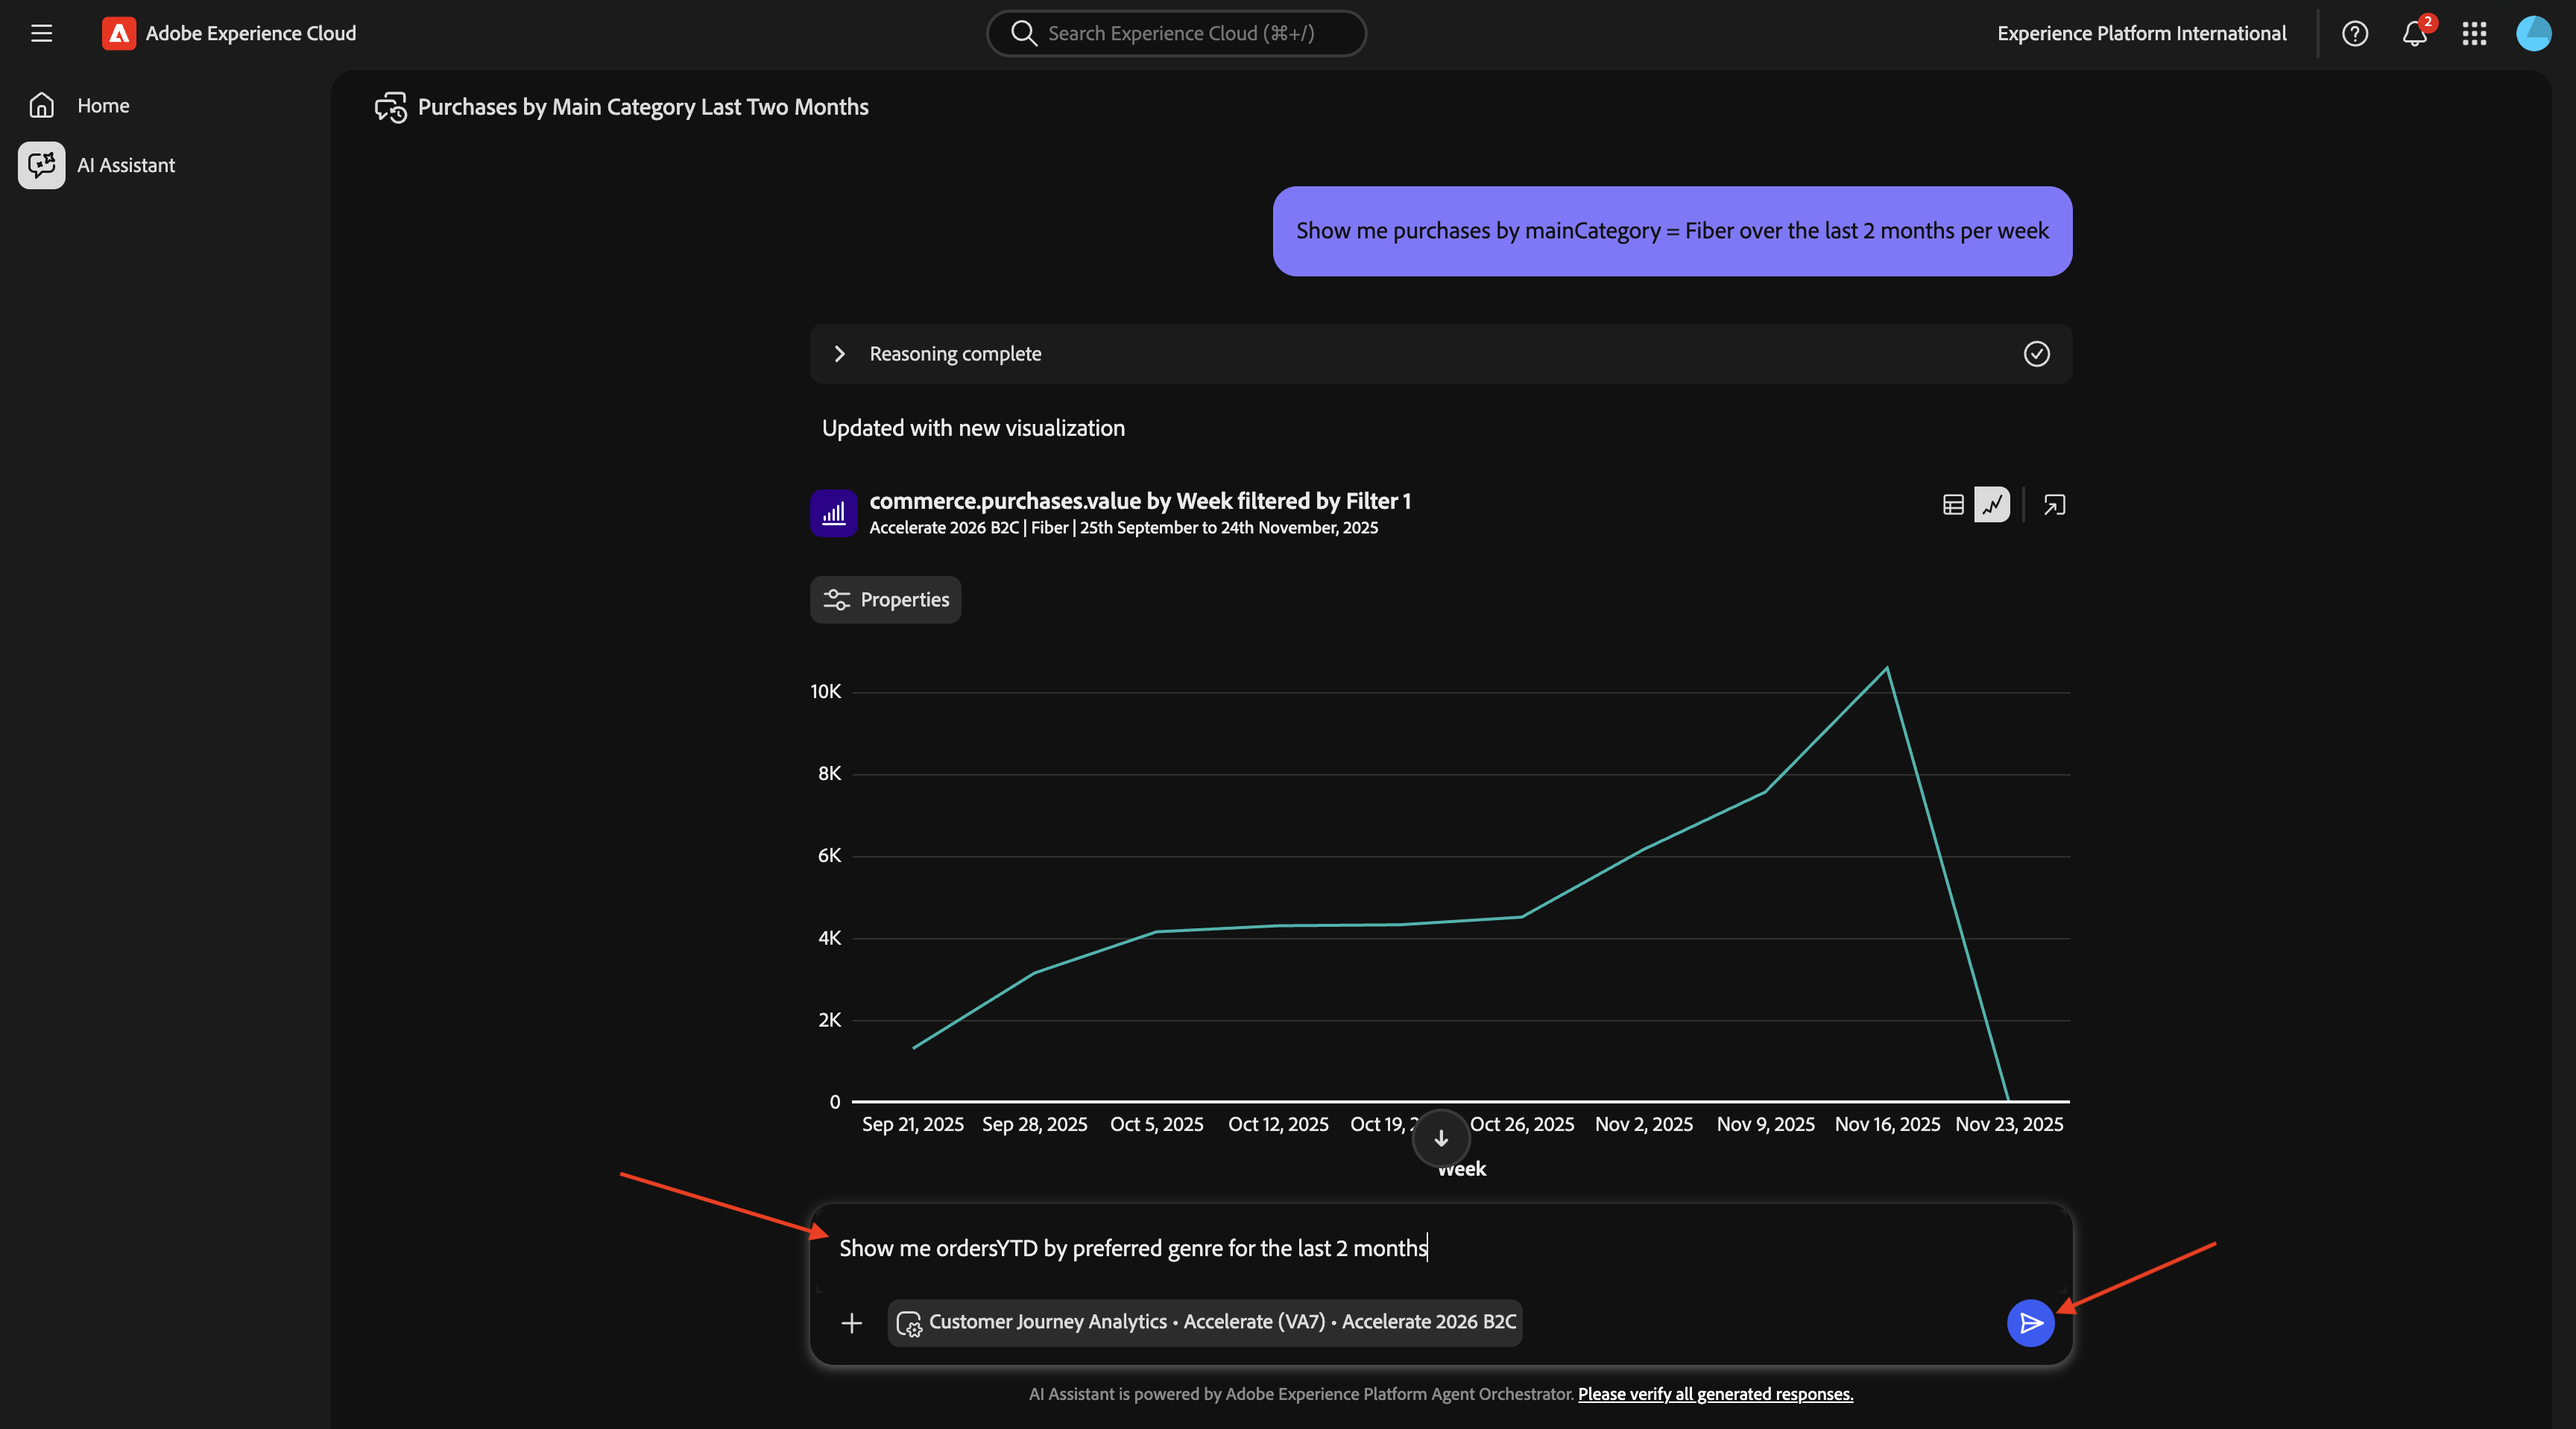
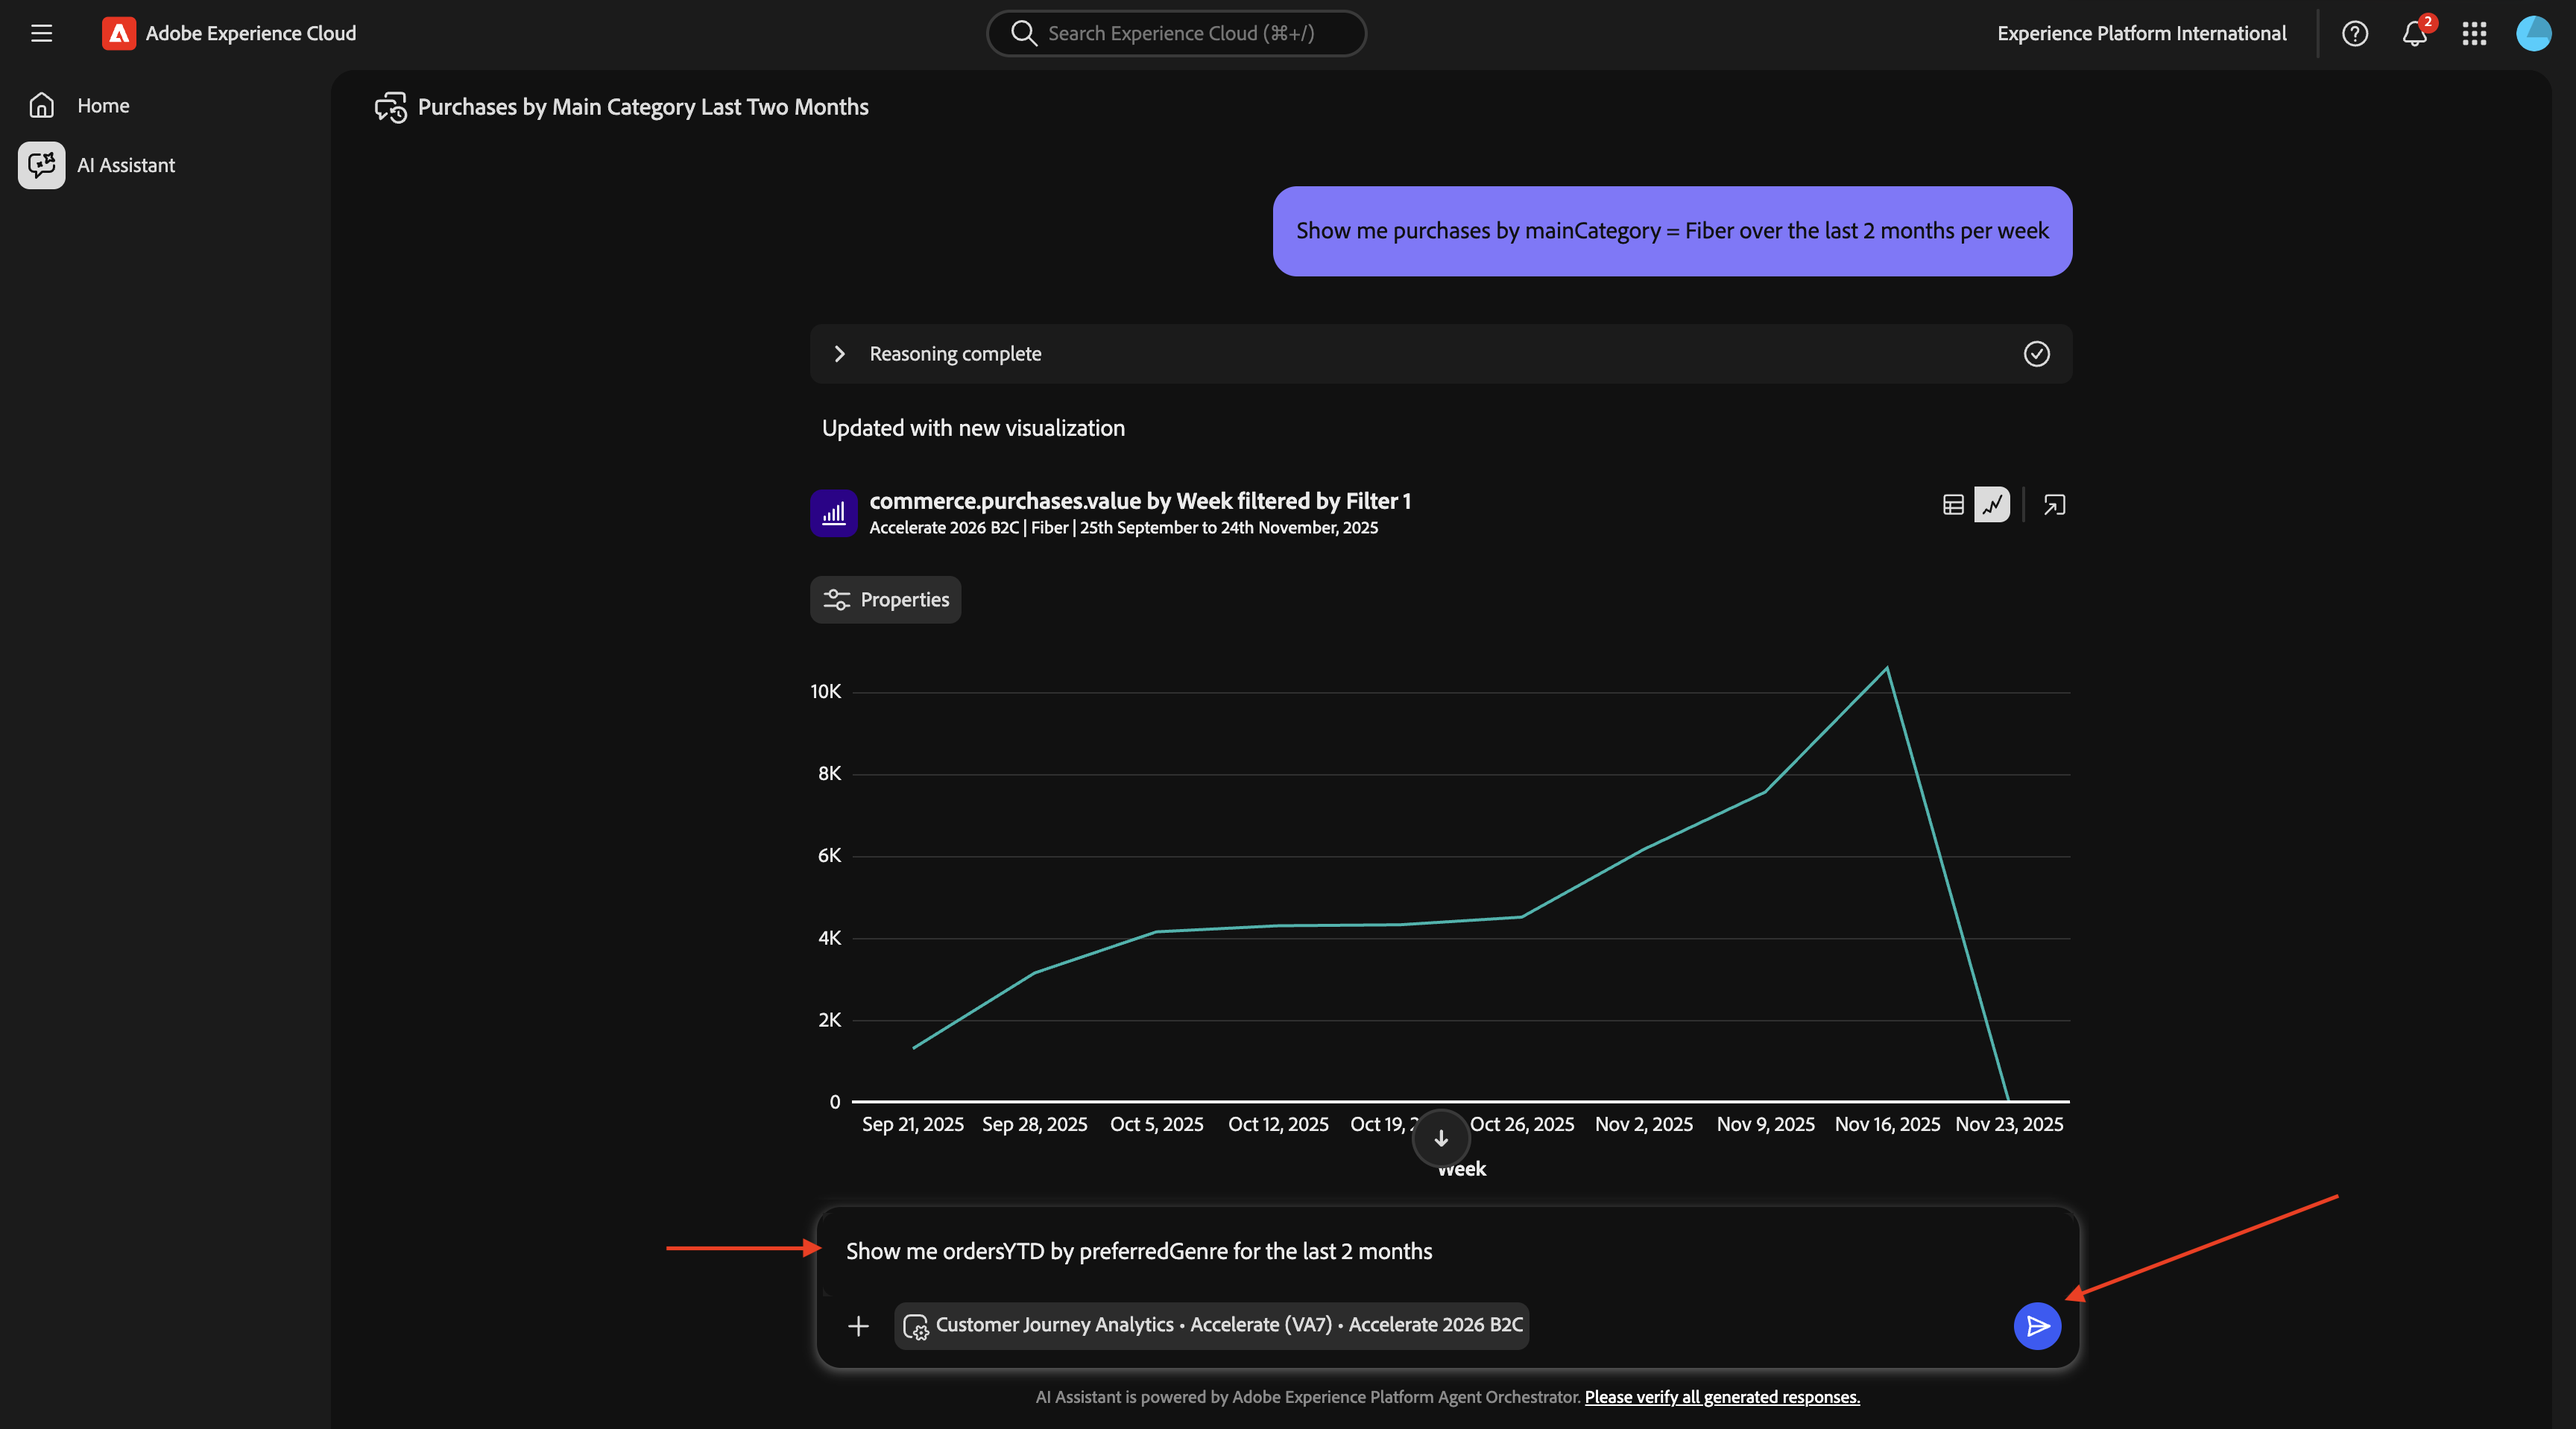
update

diff --git a/help/tutorial-one-adobe/modules/agents/module1.1/ex1.md b/help/tutorial-one-adobe/modules/agents/module1.1/ex1.md
@@ -80,15 +80,7 @@ You should then see this, which drills down into Fiber-specific trends.
 
 ## 1.1.1.3 Correlate Orders with Content Preferences 
 
-Enter the following **Prompt** and click the **generate** button.
-
-```javascript
-Show me ordersYTD by preferred genre for the last 2 months
-```
-
-![Agent Orchestrator](./images/ao8.png)
-
-**Intent** Test the hypothesis that content preference (e.g., SciFi, Sports, Drama) predicts broadband upgrade behavior—especially for highbandwidth needs. 
+**Intent**: Test the hypothesis that content preference (e.g., SciFi, Sports, Drama) predicts broadband upgrade behavior—especially for highbandwidth needs. 
 
 **Thinking**
 
@@ -110,13 +102,31 @@ Analyze conversion by genre (e.g., Sci-Fi, Sports).
 
 **Goal** Validate if Sci-Fi fans over-index for Fiber upgrades. 
 
-## 1.1.1.4 Identify Existing Fiber Journeys 
-
 Enter the following **Prompt** and click the **generate** button.
 
 ```javascript
-What journey was running and had Fiber in the name
+Show me ordersYTD by preferredGenre for the last 2 months
 ```
+
+![Agent Orchestrator](./images/ao8.png)
+
+You should then see this:
+
+![Agent Orchestrator](./images/ao9.png)
+
+## 1.1.1.4 Identify Existing Fiber Journeys 
+
+Click the **context** window.
+
+![Agent Orchestrator](./images/ao10.png)
+
+Set the context to:
+
+- **Documentation Source**: **Adobe Journey Optimizer**
+- **Sandbox**: **Accelerate**
+- **Dataview**: **Accelerate 2026 B2C**
+
+![Agent Orchestrator](./images/ao11.png)
 
 **Intent** Discover which active or recently concluded journeys include “Fiber” in the title—e.g., “Fiber Upgrade NYC – Sept”, “Fiber Trial – Streaming Bundle”. 
 
@@ -132,23 +142,39 @@ List of journeys with status (active, paused, ended), date ranges, target segmen
 
 Next move: Shortlist one or two successful fiber journeys for cloning/adaptation. 
 
-**Prompt**
+Enter the following **Prompt** and click the **generate** button.
 
-`What journey was running and had Fiber in the name?`
+```javascript
+What journeys exist? 
+```
+
+![Agent Orchestrator](./images/ao12.png)
+
+You should then see this:
+
+![Agent Orchestrator](./images/ao13.png)
 
 List active or past journeys with Fiber messaging. 
 
-Action: Shortlist high-performing journeys for cloning. 
-
-## 1.1.1.5 Check the seed audience for a relevant historical promo 
+Action: Shortlist high-performing journeys for cloning.
 
 Enter the following **Prompt** and click the **generate** button.
 
 ```javascript
-What was the initial audience in that SCi-Fi promo 2024 - jl journey
+Which of these journeys has 'Fiber' in its name?
 ```
 
-**Intent** Understand the seed definition of the “SciFi Promo 2024 - jl” journey—what traits drove targeting (e.g., “SciFi Genre Preference,” “4+ devices,” “stream ≥ 300GB/month”). 
+![Agent Orchestrator](./images/ao14.png)
+
+You should then see this:
+
+![Agent Orchestrator](./images/ao15.png)
+
+## 1.1.1.5 Check the seed
+
+**Intent**:
+
+Understand the seed definition of the “CitiSignal - Fiber Max Launch Promotion” journey—what traits drove targeting (e.g., “SciFi Genre Preference,” “4+ devices,” “stream ≥ 300GB/month”). 
 
 **Thinking**
 
@@ -166,41 +192,44 @@ Audience criteria (inclusion/exclusion), audience size, region filters, recency,
 
 From this point, the marketer switches into analytics mode to ensure proper reporting. 
 
-**Prompt**: 
+Enter the following **Prompt** and click the **generate** button.
 
 ```javascript
-What was the initial audience in that SCi-Fi promo 2024 - jl journey?
+What was the initial audience in the journey named 'CitiSignal - Fiber Max Launch Promotion'?
 ```
 
+![Agent Orchestrator](./images/ao16.png)
 Review audience criteria (streaming habits, device count). 
 
-Goal: Understand traits for high-bandwidth needs. 
+**Goal**: Understand traits for high-bandwidth needs. 
 
 ## 1.1.1.6 Validate journey performance via fallout analysis 
 
-**Prompt**: 
+Enter the following **Prompt** and click the **generate** button.
 
 ```javascript
-Create a fall-out report on the "Sci-Fi Promo 2024 - jl" journey
+Create a fall-out report on the "CitiSignal - Fiber Max Launch Promotion" journey
 ``` 
 
 >[!NOTE]
 >
 >Change context to CJA) 
 
-**Intent** Build a stepwise funnel in Customer Journey Analytics
+**Intent**:
+
+Build a stepwise funnel in Customer Journey Analytics
 
 Delivered → Opened → Clicked → Landed → Product View → Add to Cart → Checkout → Order Complete 
 
 Include Fiber-related SKU views as a branch. 
 
-Thinking: 
+**Thinking**: 
 
 “Where are we losing people—email open, landing page load, PDPs, checkout friction?” 
 
 “Do SciFi users bounce more or less than average on Fiber PDP?” 
 
-Expected outputs: 
+**Expected outputs**: 
 
 A fallout visualization with dropoff rates at each step. 
 
@@ -208,7 +237,7 @@ Segment overlays (SciFi vs Sports vs Other).
 
 Device/browser breakdown for technical friction. 
 
-Decisions: 
+**Decisions**: 
 
 If checkout dropoff is high, coordinate with product/UX to fix payment flow. 
 
@@ -220,20 +249,19 @@ If PDP exit is high, rework claim clarity (speeds, installation times, bundle va
 
 Now the marketer moves into Adobe Journey Optimizer for orchestration and audience ops. 
 
-**Prompt**: 
+Enter the following **Prompt** and click the **generate** button.
 
 ```javascript
-Create a fall-out report on the "Sci-Fi Promo 2024 - jl" journey 
+Create a fall-out report on the "CitiSignal - Fiber Max Launch Promotion" journey 
 ```
 
 Build funnel visualization: Delivered → Opened → Clicked → Checkout → Order. 
 
-Action: Identify drop-off points and optimize messaging or UX. 
-
+**Action**: Identify drop-off points and optimize messaging or UX. 
 
 ## 1.1.1.7 Find existing audiences aligned to high usage 
 
-**Prompt**: 
+Enter the following **Prompt** and click the **generate** button.
 
 ```javascript
 Is there an audience that has "heavy downloaders" in the title?
@@ -243,77 +271,67 @@ Is there an audience that has "heavy downloaders" in the title?
 >
 >Change context to Adobe Journey Optimizer
 
-Intent: Locate any JO audience named with “heavy downloaders”—likely defined by monthly data usage thresholds, streaming hours, or device concurrency. 
+**Intent**: 
 
-Thinking: 
+Locate any JO audience named with “heavy downloaders”—likely defined by monthly data usage thresholds, streaming hours, or device concurrency. 
+
+**Thinking**: 
 
 “If an audience like Heavy Downloaders exists, it’s perfect for Fiber Max positioning: speed, reliability, unlimited tiers.” 
 
-Expected outputs: 
+**Expected outputs**: 
 
 Audience metadata: definition criteria, size, last refresh, governance tags, region availability. 
 
-**Prompt**: 
-
-```javascript
-Is there an audience that has " heavy downloaders" in the title 
-```
-
 Locate audiences with high data usage. 
 
-Goal: Combine with Sci-Fi preference for Fiber Max targeting. 
+**Goal**: Combine with Sci-Fi preference for Fiber Max targeting. 
 
 ## 1.1.1.8 Determine whether those audiences are already in use 
 
-**Prompt**: 
+**Intent**: 
 
-```javascript
-Which of the above are used in a journey? 
-```
+Check audience-to-journey linkage—ensure we don’t doublemessage or collide with current programs. 
 
-Intent: Check audience-to-journey linkage—ensure we don’t doublemessage or collide with current programs. 
-
-Thinking: 
+**Thinking**: 
 
 “If Heavy Downloaders is already in a retention journey, we need suppression logic or frequency capping to avoid fatigue.” 
 
-Expected outputs: 
+**Expected outputs**: 
 
 Mappings: audience → journey name, status, contact policy, last send, performance. 
 
-Decision: 
+**Decision**: 
 
 If in use, create exclusions or shared suppression for Vienna launch. 
 
 If not in use, greenlight for new journey. 
 
-Prompt: 
+Enter the following **Prompt** and click the **generate** button.
 
-which of the above are used in a journey? 
+```javascript
+Which of the above are used in a journey? 
+```
 
 Ensure no overlap with active campaigns. 
 
-Action: Apply suppression if needed. 
+**Action**: Apply suppression if needed. 
 
 ## 1.1.1.9 Create New Journey for Fiber Max Launch 
 
-**Prompt**: 
+**Intent**: 
 
-```javascript
-Create a  journey towards the audience Heavy Downloaders - Sci-Fi Preference_kbaa_5207bf. The journey is for the rollout of fiber broadband. There will 2 versions of an email  based on  a split of the audience based on who is in the "Eligble for Fiber upgrade" audience.  After 3 days, profiles from both email treatments who have not purchased fibre max will be sent a follow up email. 
-```
-
-Intent: Build a new JO journey targeting the compound audience: 
+Build a new journey targeting the compound audience: 
 
 Heavy Downloaders ∩ SciFi Preference (kbaa_5207bf audience key). 
 
-Thinking: 
+**Thinking**: 
 
 “This is the sweet spot for Fiber Max: high propensity + creative relevance.” 
 
 “We’ll orchestrate a multitouch experience tied to Vienna availability.” 
 
-Journey design (JO): 
+**Journey design (JO)**: 
 
 Entry Criteria: 
 
@@ -363,7 +381,7 @@ How this all fits together (the marketer’s mental model)
 
 Diagnose demand (overall categories → Fiber specifically). 
 
-Prove contenttoconversion signal (orders by genre). 
+Prove content toconversion signal (orders by genre). 
 
 Mine successful journeys (find Fibernamed journeys and the SciFi promo audience). 
 
@@ -371,6 +389,11 @@ Validate friction points (CJA fallout on SciFi journey).
 
 Activate against highpropensity segments (Heavy Downloaders ∩ SciFi). 
 
+Enter the following **Prompt** and click the **generate** button.
+
+```javascript
+Create a  journey towards the audience Heavy Downloaders - Sci-Fi Preference_kbaa_5207bf. The journey is for the rollout of fiber broadband. There will 2 versions of an email  based on  a split of the audience based on who is in the "Eligble for Fiber upgrade" audience.  After 3 days, profiles from both email treatments who have not purchased fibre max will be sent a follow up email. 
+```
 
 Go Back to [Agent Orchestrator](./agentorchestrator.md){target="_blank"}
 
